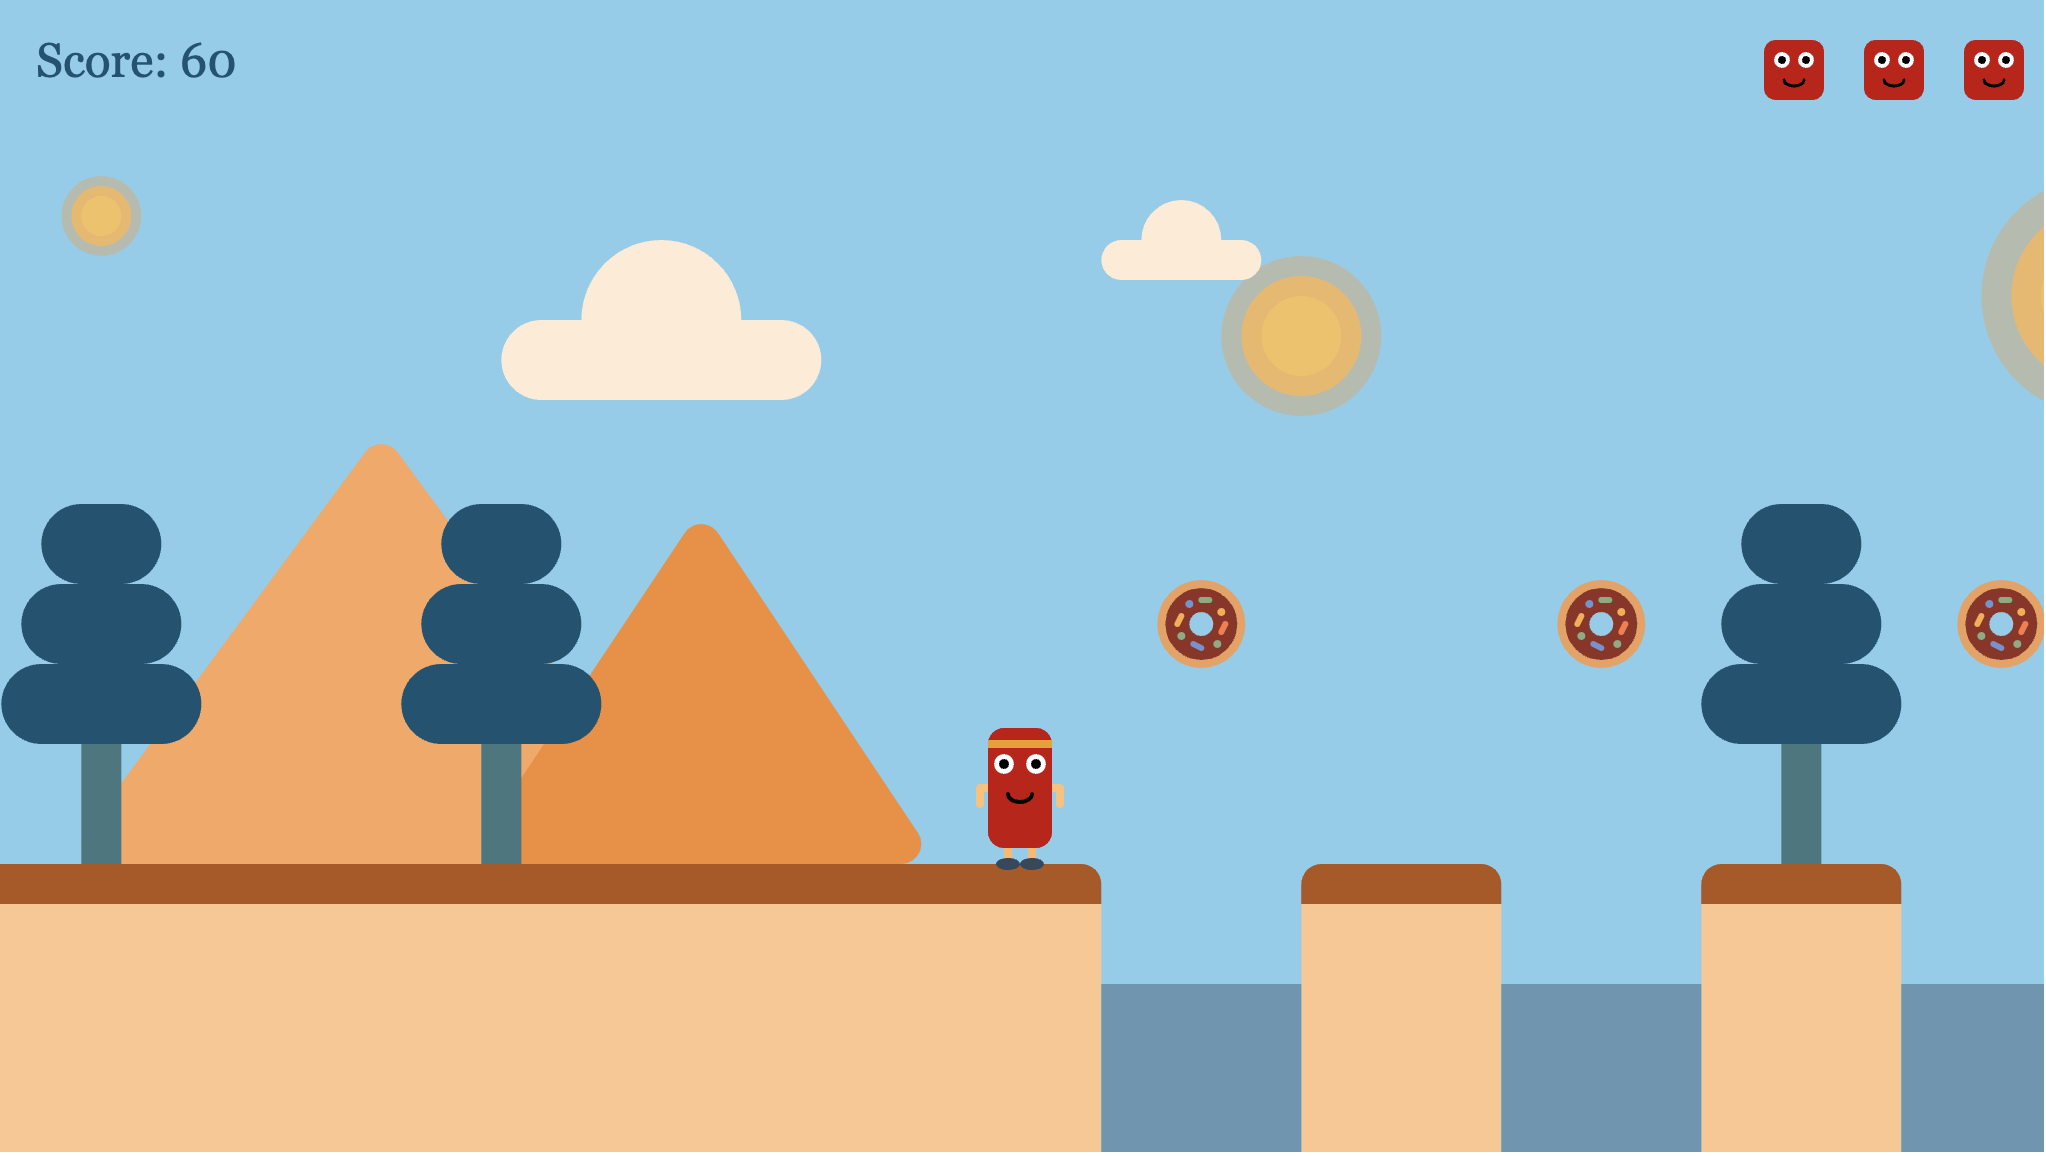
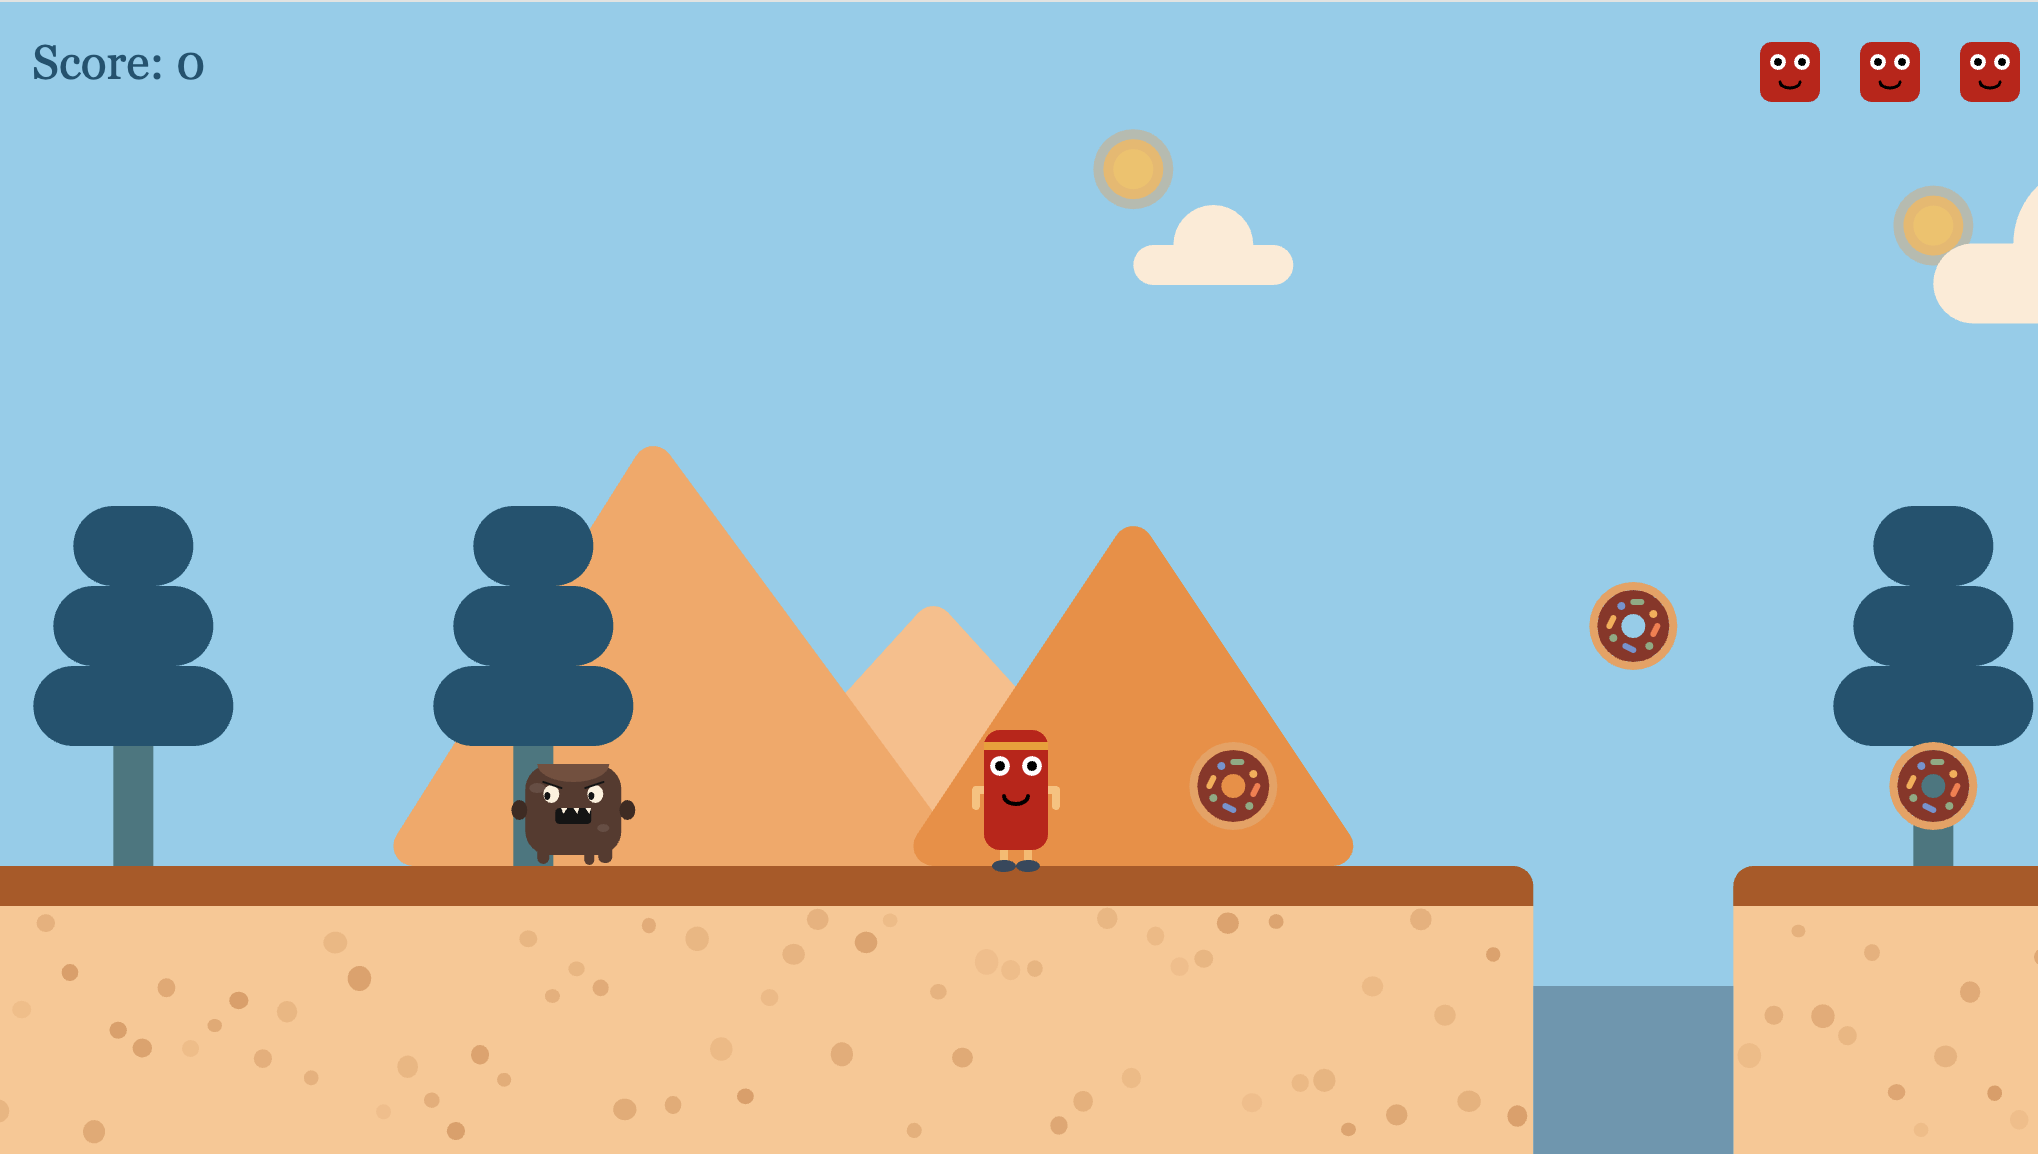
feat: update read me

diff --git a/README.md b/README.md
@@ -24,15 +24,14 @@
 1. Use the **Left (←)** and **Right (→)** arrow keys to move your character.
 2. Press the **Up arrow (↑)** or **Space bar** to jump over obstacles.
 3. Avoid hitting any obstacles or falling off platforms.
-4. Your score increases based on how far you run and the obstacles you successfully avoid.
-5. The game is endless — aim for the highest score possible!
+4. Your score increases based on how many donuts you collect.
 
 ## 📂 Running Locally
 
 To run the project locally, follow these steps:
 
 ```bash
-git clone https://github.com/helinokcu/pixelrunner.git
-cd pixelrunner
+git clone https://github.com/xhokcu/sweet_sprint_game.git
+cd sweet_sprint_game
 open index.html
 ```
